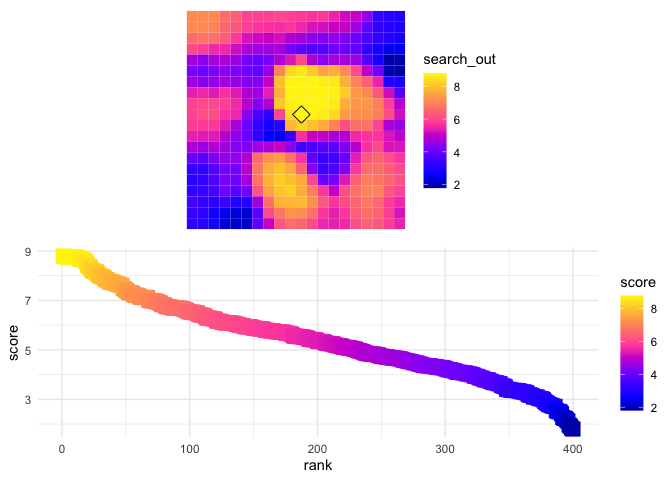
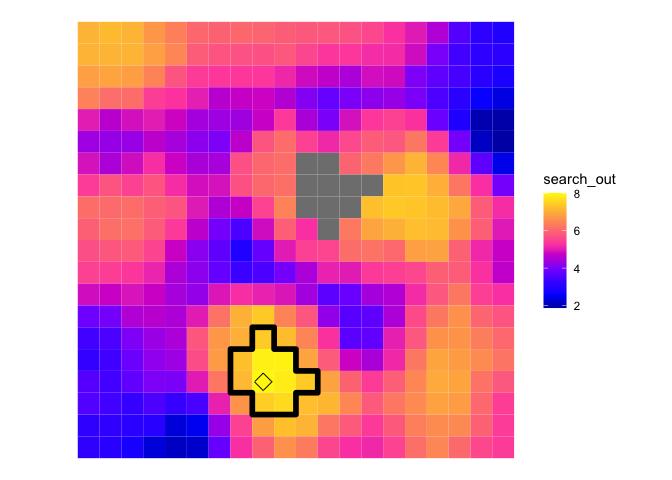
updated readme

diff --git a/README.md b/README.md
@@ -5,8 +5,6 @@ Patchmax
 
 <img src="man/figures/forsys_icon.png" align="right" style="height:90px!important; position:absolute; top:10px; right:10px" />
 
-## Description
-
 Patchmax is a computational module designed to explore spatially
 explicit landscape treatment projects. The package can be used to
 prioritize treatment locations on relatively small landscapes (project
@@ -14,17 +12,21 @@ level implementation, 1,000 ha) to large landscapes (national forests to
 multi-regional planning efforts, 1 million ha). Although patchmax was
 originally designed for hazardous fuel treatment planning in forested
 systems, it can be applied to fiber production, habitat restoration, and
-other resource management problems. Patchmax utilizes Djistra’s
-algorithm to sequence stands within the projects based on both adjacency
-and distance, which is modified according to the model parameters.
+other resource management problems. This version of Patchmax is based on
+a R6 objects and utilizes Djistra’s algorithm to sequence stands within
+patches based on both adjacency and distance.
 
-Dependences: R (\>= 4.0.3) and packages (igraph, data.table, sf,
-doParallel, parallel, spdep, pbapply)
+*Dependences: R (\>= 4.0.3) and packages (R6, igraph, dplyr, sf, furrr,
+purrr, proxy, cppRouting)*
 
 ## Installation
 
+<<<<<<< Updated upstream
 The current official version of the *patchmax* package can be installed
 from [GitHub](https://github.com/forsys-sp/patchmax/).
+=======
+Patchmax package can be installed from GitHub using the following code.
+>>>>>>> Stashed changes
 
 ``` r
 if (!require(remotes)) install.packages("remotes")
@@ -34,6 +36,7 @@ remotes::install_github("forsys-sp/patchmax")
 ## Usage
 
 Stand treatment units are represented as polygons in a spatial vector
+<<<<<<< Updated upstream
 format. Each polygon represents a different treatment unit.
 
 ``` r
@@ -45,33 +48,27 @@ pm$search()$build()$record()
 
 First, let’s load some example data and map the included fields. To keep
 things simple, we focus only a subset of the entire study area.
+=======
+format. Each polygon represents a different treatment unit with numerous
+attributes that can be used to prioritize or constrain patch
+construction. To start, let’s load some example data included with
+patchmax. To keep things simple, we focus only a subset of the entire
+study area. Further below, we’ll set up a scenairo where we create
+several patches in sequence that maximize priority *p4* up to a patch
+size of 1000 ha and a maximum cost of \$50000
+>>>>>>> Stashed changes
 
 ``` r
 library(dplyr)
-```
-
-    ## 
-    ## Attaching package: 'dplyr'
-
-    ## The following object is masked from 'package:patchmax':
-    ## 
-    ##     sample_frac
-
-    ## The following objects are masked from 'package:stats':
-    ## 
-    ##     filter, lag
-
-    ## The following objects are masked from 'package:base':
-    ## 
-    ##     intersect, setdiff, setequal, union
-
-``` r
 library(sf)
-```
+library(purrr)
 
+<<<<<<< Updated upstream
     ## Linking to GEOS 3.10.2, GDAL 3.4.1, PROJ 7.2.1; sf_use_s2() is TRUE
 
 ``` r
+=======
+>>>>>>> Stashed changes
 geom <- patchmax::test_forest %>% 
   filter(row > 20, row <= 40, col > 20, col <= 40)
 
@@ -84,23 +81,22 @@ geom %>%
 
 We can combined these data to create additional fields. For example,
 let’s create a new field called cost, which we’ll use later as a
-secondary constraint building patches.
+secondary constraint building patches. In this example, treatment costs
+range between 500 and 5000 dollars per 100 ha stand.
 
 ``` r
 geom <- geom %>% mutate(cost = ((p2 + p4 - c1) * 1000) + 3000)
 plot(geom[,'cost'], border=NA)
 ```
 
-![](man/figures/unnamed-chunk-4-1.png)<!-- -->
+![](man/figures/unnamed-chunk-3-1.png)<!-- -->
 
-Patchmax is written as R6 class, which uses a slightly different syntax
-the functional programming design used in most R functions. To use
-patchmax, we first create a patchmax object called `pm` using the new
-method in the patchmax_generator class. `print(pm)` shows how the object
-is structured into public and private components. Several of the public
-elements are called active bindings, which is used to get and set
-private elements under very specific conditions. The private elements
-cannot be directly access or changed from the outside.
+Patchmax is written as R6 class, which uses a syntax that differs from
+functional programming design used in most R functions. We first create
+a patchmax object called `pm` using the `new` method in the `patchmax`
+class and specify five base parameters that required in every Patchmax
+run: the stand geometry, the fields names for the stand id, objective,
+and area, and finally the maximum area allowed in a patch.
 
 ``` r
 pm <- patchmax$new(
@@ -114,12 +110,18 @@ pm <- patchmax$new(
 The core purpose of patchmax is build spatially contiguous patches that
 maximizes some objective given some maximum size constraint. The example
 below shows how this is done over a series of steps: (1) patchmax
+<<<<<<< Updated upstream
 searches for the best place, (2) builds that patch, (3) plots the patch,
 (4) records the patch, (5) describes the patch statistics.
+=======
+searches for the best place based on the parameters given, (2) builds
+that patch, (3) records the patch, (4) plots the patch.
+>>>>>>> Stashed changes
 
 ``` r
 pm$search()
 pm$build()
+<<<<<<< Updated upstream
 pm$plot()
 ```
 
@@ -256,8 +258,99 @@ pm$summarize()
     ##  8        8  6.33  1000
     ##  9        9  6.17  1000
     ## 10       10  6.07  1000
+=======
+pm$record()
+pm$plot()
+```
+
+![](man/figures/basic_example-1.png)<!-- --> Note that the same set of
+sequence of steps can be chained together into a single line:
+`pm$search()$build()$plot()`. This is a distinct feature of R6 class
+objects that works similar to piping `|>`.
+
+To get a better sense of how the patch is selected, let’s look at the
+search results in more detail. The plot below shows the patch scores
+using each stand as a potential seed. Note how the stands recorded in
+the previous patch are excluded. While the search plot looks similar to
+stand plot of the priority `p4`, the values represent the potential
+objective score of a patch if it were built from that location. In this
+sense, patchmax works similar to a moving window spatial analysis
+
+``` r
+pm$search(search_plot = T)
+```
+
+![](man/figures/search_example-1.png)<!-- --> Next we’ll change a few
+additional parameters and see how this affects the search. Notice how
+two large blocks of the landscape are excluded due to the new treatment
+threshold.
+
+``` r
+pm$threshold = 't1 == 1'
+pm$search(search_plot = T)
+```
+
+![](man/figures/unnamed-chunk-5-1.png)<!-- --> Next, let’s add a
+secondary constraint that limits the overall cost of each patch to
+15000. Note how this suppresses the search_out scores substantially;
+many of the potential patch locations that were able to produce high
+quality patches are now blue. This change is the result of the new cost
+constraint limiting patch sizes in many areas of the landscape from
+growing more than a few stands in size, hence the lower scores.
+
+``` r
+pm$constraint_field = 'cost'
+pm$constraint_max = 15000
+pm$search(search_plot = T)
+```
+
+![](man/figures/unnamed-chunk-6-1.png)<!-- --> Adding a minimize patch
+size constrains potential projects further and remove additional
+sections of the landscape from consideration since no viable patches
+exist.
+
+``` r
+pm$area_min = 500
+pm$search(search_plot = T)
+```
+
+![](man/figures/unnamed-chunk-7-1.png)<!-- --> As a final step, we’ll
+reset the patchmax run and use the simulate method to identify the 10
+highest prioirty patches given the area, cost, and threshold
+constraints.
+
+``` r
+pm$reset()
+pm$simulate(10)
+pm$plot()
+```
+
+![](man/figures/unnamed-chunk-8-1.png)<!-- -->
+
+``` r
+pm$patch_stats
+```
+
+    ##    patch_id seed area coverage objective constraint excluded
+    ## 1         1 2933  800     1000       6.7      14200       20
+    ## 2         2 3438 1000     1000       6.7      12420        0
+    ## 3         3 2432 1000     1000       5.1      14430        0
+    ## 4         4 2033  900     1200       4.8      14890       25
+    ## 5         5 3733  800     1200       4.5      14390       33
+    ## 6         6 3030  900      900       4.3      14940        0
+    ## 7         7 3235  900     1400       4.1      14370       36
+    ## 8         8 3840  800      800       4.0      13850        0
+    ## 9         9 2529  700      700       4.0      14640        0
+    ## 10       10 2923  600      600       3.9      14300        0
+>>>>>>> Stashed changes
 
 ## Studies
+
+Patchmax builds on an earlier implementation as described in Belavenutti
+et al. 2022 which pioneered the use of network search algorithms to
+prioritize patches. The current version was rewritten as an R6 object
+class and uses Dijstra’s algorithm over breath first search in
+evaluating patches.
 
 Belavenutti, Pedro, Alan A. Ager, Michelle A. Day, and Woodam Chung.
 2022. Designing forest restoration projects to optimize the application
